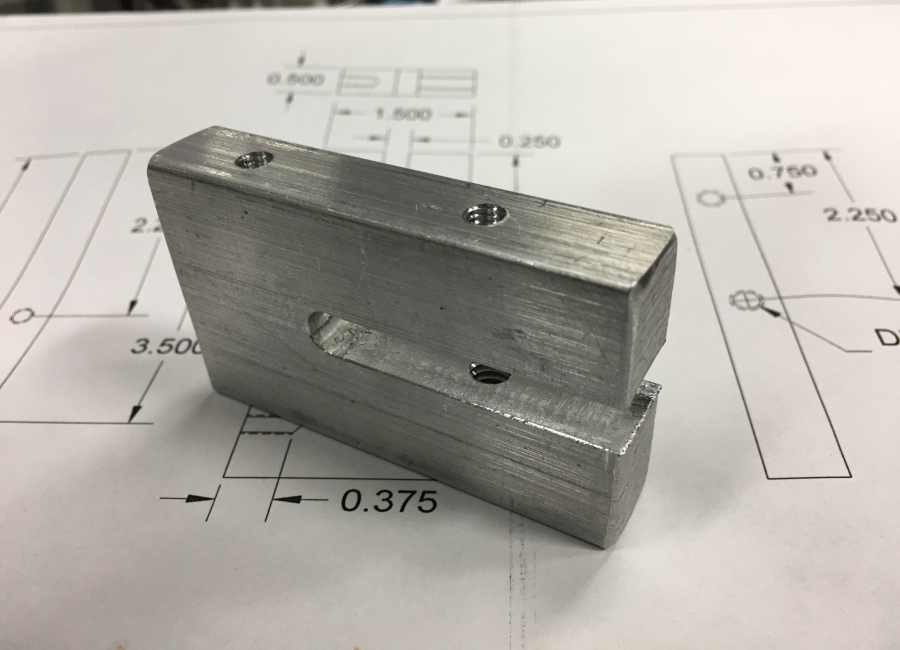
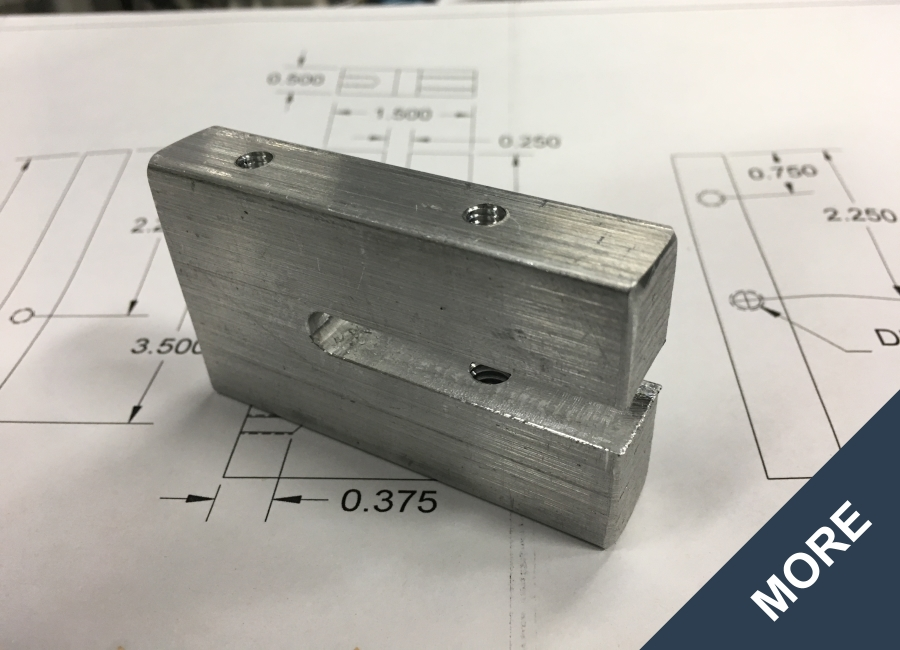
Added "More" thumbnail

Changed region(s): [[0.7156, 0.5846, 1.0, 1.0]]

diff --git a/index.html b/index.html
@@ -429,7 +429,7 @@
 								<p><strong>The Solution: </strong>I designed a replacement handle that was more comfortable and cheaper. After working through several prototype revisions, both virtual and physical, we ended up on a finale version. I then designed a mold of the part with help from an aluminum casting company. After the design I worked together with the in house machinists to produce the mold of the new handles.</p>
 								<p><strong>The Value: </strong>The new handle is more comfortable than the existing one. By keeping the prototyping, and most of the manufacturing in house the new handle is 75% cheaper than the old one. With this project I also implemented new software and manufacturing capabilities to the company, increasing productivity across many more projects to come.</p>
 							</div>
-                            <img src="img\portfolio\450 Gun\GN0.jpg" class="img-responsive img-centered" alt="">
+                            <img src="img\portfolio\450 Gun\GN0A.jpg" class="img-responsive img-centered" alt="">
 							<p><strong>The Before</strong></p>
 							<img src="img\portfolio\450 Gun\GN1.jpg" class="img-responsive img-centered" alt="">
 							<p>Computer models of the prototypes</p>
@@ -487,7 +487,7 @@
 								<p><strong>The Solution: </strong>I developed a cost effective safety cover out of sheet metal. This cover bolts onto the existing machine requiring only a few additional holes.</p>
 								<p><strong>The Value: </strong>The customer was able to use the machine safely in the shop. After development this cover became an option for all future machines.</p>
 							</div>
-                            <img src="img\portfolio\PMGuard\AG0.jpg" class="img-responsive img-centered" alt="">
+                            <img src="img\portfolio\PMGuard\AG0AA.jpg" class="img-responsive img-centered" alt="">
 							<p><strong>The Before</strong></p>
 							<img src="img\portfolio\PMGuard\AG0A.jpg" class="img-responsive img-centered" alt="">
 							<img src="img\portfolio\PMGuard\AG1.png" class="img-responsive img-centered" alt="" style="border:2px; border-style:solid; border-color:#2C3E50">
@@ -528,7 +528,7 @@
 								<p><strong>The Solution: </strong>I developed a machine that automated this process. Using a reciprocating motion and spring tensioned rollers two packets of epoxy could be mixed automatically. Using different spring forces and mix times helped determine the calculations and testing necessary to ensure the proper mix.</p>
 								<p><strong>The Value: </strong>The Packet Mixer removed the worker from the mix process, allowing for other production. Plus they don’t have to do it by hand.</p>
 							</div>
-                            <img src="img\portfolio\Packet Mixer\PM0.jpg" class="img-responsive img-centered" alt="">
+                            <img src="img\portfolio\Packet Mixer\PM0A.jpg" class="img-responsive img-centered" alt="">
 							<p><strong>The Before</strong></p>
 							<p>Demonstrating sled travel</p>
 							<img src="img\portfolio\Packet Mixer\PM1.png" class="img-responsive img-centered" alt="" style="border:2px; border-style:solid; border-color:#2C3E50">
@@ -603,7 +603,7 @@
 								<p><strong>The Value: </strong>The solution provided the customer the means to complete the task required. The simple design was cost effective and required little future maintenance.</p>
 							</div>
                             <img src="img\portfolio\Dynamic Arm\DA1.jpg" class="img-responsive img-centered" alt="">
-							<img src="img\portfolio\Dynamic Arm\DA0.jpg" class="img-responsive img-centered" alt="">
+							<img src="img\portfolio\Dynamic Arm\DA0A.jpg" class="img-responsive img-centered" alt="">
 							<p><strong>The Before</strong></p>
 							<img src="img\portfolio\Dynamic Arm\DA3.png" class="img-responsive img-centered" alt="">
 							<p>Assembly drawing of the arm</P>
@@ -635,7 +635,7 @@
 								<p><strong>The Solution: </strong>A simple problem requires a simple solution. After working with the assembly team to create a quick sketch I produced an official drawing. The drawing went through one more revision phase before the final drawing was passed to the production team.</p>
 								<p><strong>The Value: </strong>The finished part was produced from a quick sketch to revision to final drawing in less than an hour.</p>
 							</div>
-                            <img src="img\portfolio\Bracket\BK0.jpg" class="img-responsive img-centered" alt="">
+                            <img src="img\portfolio\Bracket\BK0A.jpg" class="img-responsive img-centered" alt="">
 							<p><strong>The Before</strong></p>
 							<img src="img\portfolio\Bracket\BK1.jpeg"  class="img-responsive img-centered" alt="">
 							<p>Revsions on the first drawing</p>
